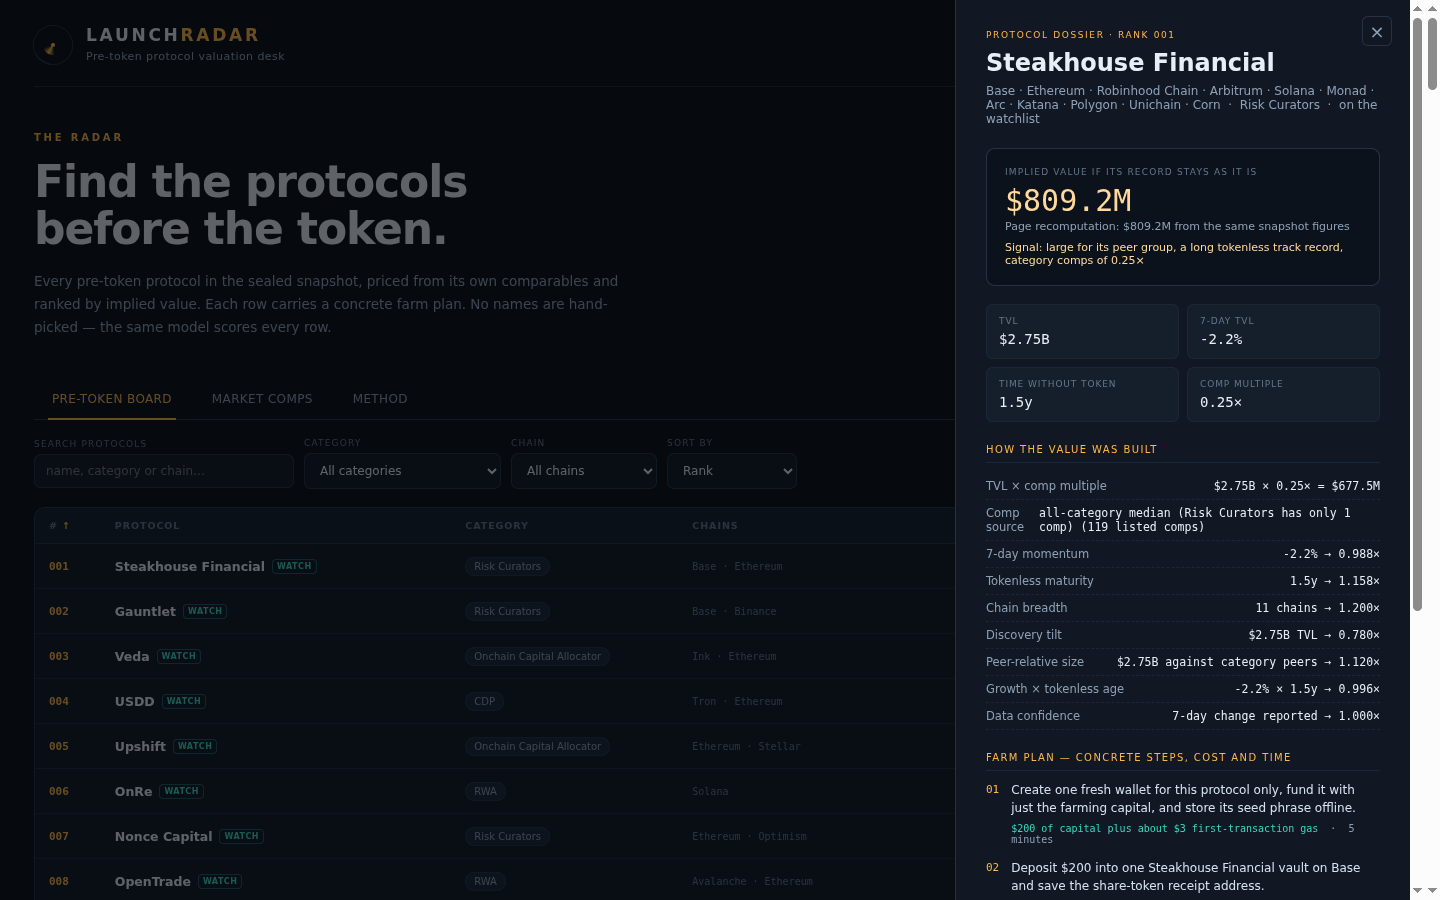
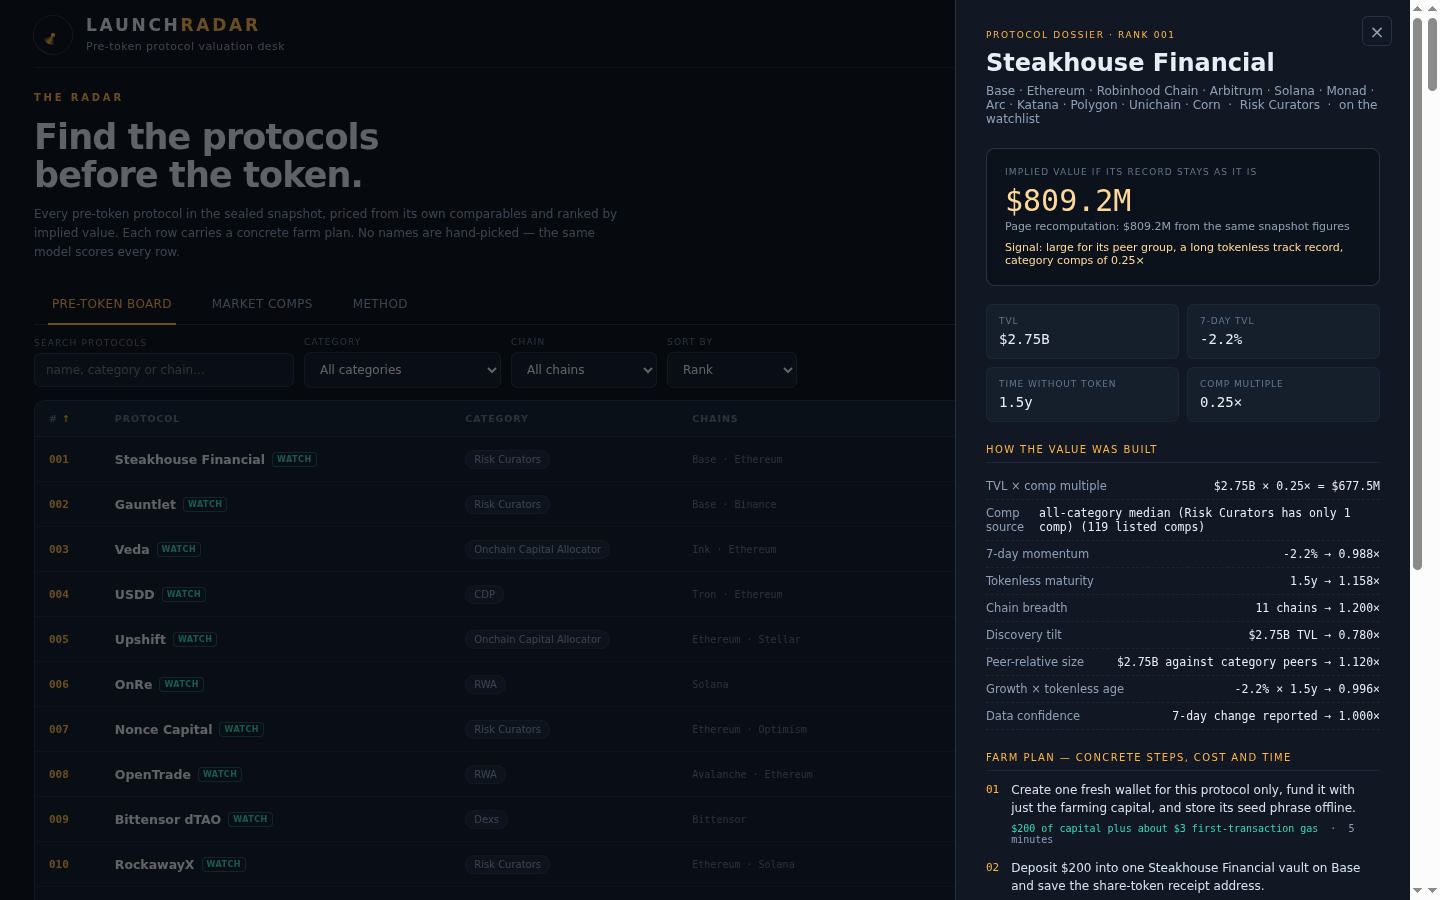
v3: denser dashboard, 7-step farm plans with full budget

diff --git a/dashboard/app.css b/dashboard/app.css
@@ -13,7 +13,7 @@ button,input,select{font:inherit;color:inherit}
 .app{max-width:1440px;margin:0 auto;padding:0 34px 60px}
 
 /* Masthead */
-.masthead{display:flex;align-items:center;justify-content:space-between;padding:26px 0 22px;border-bottom:1px solid var(--line2)}
+.masthead{display:flex;align-items:center;justify-content:space-between;padding:16px 0 13px;border-bottom:1px solid var(--line2)}
 .brand{display:flex;align-items:center;gap:14px}
 .mark{width:38px;height:38px;border-radius:50%;position:relative;display:block;
   background:conic-gradient(from 210deg,var(--amber) 0deg,transparent 42deg,transparent 318deg,var(--amber) 360deg);
@@ -30,17 +30,17 @@ button,input,select{font:inherit;color:inherit}
 .dot{width:6px;height:6px;border-radius:50%;background:var(--teal);box-shadow:0 0 9px var(--teal)}
 
 /* Hero */
-.hero{display:grid;grid-template-columns:minmax(0,1fr) 400px;gap:50px;padding:44px 0 40px;align-items:end}
+.hero{display:grid;grid-template-columns:minmax(0,1fr) 400px;gap:40px;padding:24px 0 22px;align-items:end}
 .eyebrow{color:var(--amber);font-size:10px;letter-spacing:.28em;font-weight:700;margin-bottom:16px}
-h1{font-size:44px;line-height:1.06;letter-spacing:-.025em;margin:0;font-weight:750}
-.lede{color:var(--muted);max-width:600px;font-size:13.5px;line-height:1.7;margin:18px 0 0}
+h1{font-size:35px;line-height:1.08;letter-spacing:-.025em;margin:0;font-weight:750}
+.lede{color:var(--muted);max-width:600px;font-size:12px;line-height:1.6;margin:10px 0 0}
 .stats{display:grid;grid-template-columns:1fr 1fr;gap:10px}
-.stat{background:var(--panel);border:1px solid var(--line2);border-radius:10px;padding:16px 18px;position:relative;overflow:hidden}
+.stat{background:var(--panel);border:1px solid var(--line2);border-radius:9px;padding:10px 14px;position:relative;overflow:hidden}
 .stat:after{content:"";position:absolute;left:0;top:0;bottom:0;width:2px;background:var(--amber)}
 .stat.teal:after{background:var(--teal)}
 .stat.blue:after{background:var(--blue)}
 .stat-k{font-size:9.5px;letter-spacing:.13em;color:var(--dim);text-transform:uppercase}
-.stat-v{font-family:var(--mono);font-size:26px;font-weight:600;margin-top:8px;letter-spacing:-.02em}
+.stat-v{font-family:var(--mono);font-size:21px;font-weight:600;margin-top:4px;letter-spacing:-.02em}
 .stat-n{font-size:11px;color:var(--muted);margin-top:3px}
 
 /* Tabs */
@@ -51,7 +51,7 @@ h1{font-size:44px;line-height:1.06;letter-spacing:-.025em;margin:0;font-weight:7
 .tab.on:after{content:"";position:absolute;left:14px;right:14px;bottom:-1px;height:2px;background:var(--amber)}
 
 /* Controls */
-.controls{display:flex;gap:10px;flex-wrap:wrap;align-items:center;padding:18px 0}
+.controls{display:flex;gap:10px;flex-wrap:wrap;align-items:center;padding:12px 0}
 .field{display:flex;flex-direction:column;gap:5px}
 .field label{font-size:9px;letter-spacing:.13em;color:var(--dim);text-transform:uppercase}
 .field input,.field select{background:var(--panel);border:1px solid var(--line);border-radius:7px;padding:9px 11px;min-width:130px;font-size:12px;outline:none}

diff --git a/dashboard/app.js b/dashboard/app.js
@@ -257,7 +257,7 @@
       '<p>Longer tokenless track records raise credibility with a saturating effect; small protocols get a bounded discovery tilt because the radar exists to find them early. Size relative to pre-token peers and the interaction of momentum with tokenless age are further snapshot-derived signals. An unreported 7-day change takes a small confidence haircut. Already-listed protocols are never ranked — they appear in Market comps with the market’s own price.</p>' +
       '<h3>3 · Coverage and farm plans</h3>' +
       '<p>The board carries all ' + D.watchlist_size + ' watchlist protocols plus ' + D.early_size + ' early pre-token names below the floor, ranked ' +
-        D.board_size + ' deep. Every row’s plan is built from its category, chains, TVL and age: a fresh wallet, one tailored on-chain action, a weekly qualifying action, a holding window, a safety check on the official rewards page, and a farm log. Each step states its cash cost and how long it takes.</p>' +
+        D.board_size + ' deep. Every row’s plan is built from its category, chains, TVL and age: a fresh wallet, one tailored on-chain action, a weekly qualifying action, a holding window, a safety check on the official rewards page, a farm log, and a full budget for the window. Each step states its cash cost and how long it takes.</p>' +
       '<h3>4 · Caveat</h3>' +
       '<p>Implied value is this radar’s own claim, not make.fun’s. A record with no token in DefiLlama is not proof no token exists. Nothing here predicts whether or when a launch happens.</p>';
   }

diff --git a/lib/model.ts b/lib/model.ts
@@ -68,7 +68,7 @@ export const MODEL: ModelConstants = {
 };
 
 export const MODEL_VERSION = 'launch-radar-comps-3';
-export const EARLY_ROWS = 240;   // pre-token protocols below the watchlist floor the early radar adds
+export const EARLY_ROWS = 300;   // pre-token protocols below the watchlist floor the early radar adds
 export const LIVE_ROWS = 24;     // listed protocols in the separate "market" view
 
 /** Why the snapshot is not one this model can score. */
@@ -505,6 +505,11 @@ export function farmSteps(p: SnapshotProtocol, age: number | null): FarmStep[] {
       text: `Log the wallet address, the dates and every transaction hash in a farm sheet so you can repeat the position or unwind it cleanly.`,
       cost: 'no cost beyond the log',
       time: '5 minutes',
+    },
+    {
+      text: `Budget about $${capital} of capital and roughly $${gas + 10} of gas for the whole ${hold}-day window, and never fund more than you can afford to lose.`,
+      cost: `$${capital} capital plus about $${gas + 10} gas in total`,
+      time: `${hold} days plus about 40 minutes of setup`,
     },
   ];
 }
